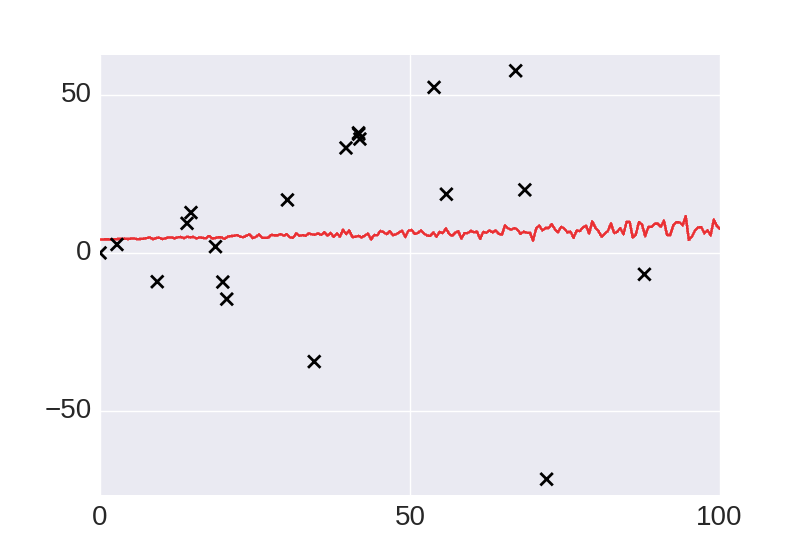
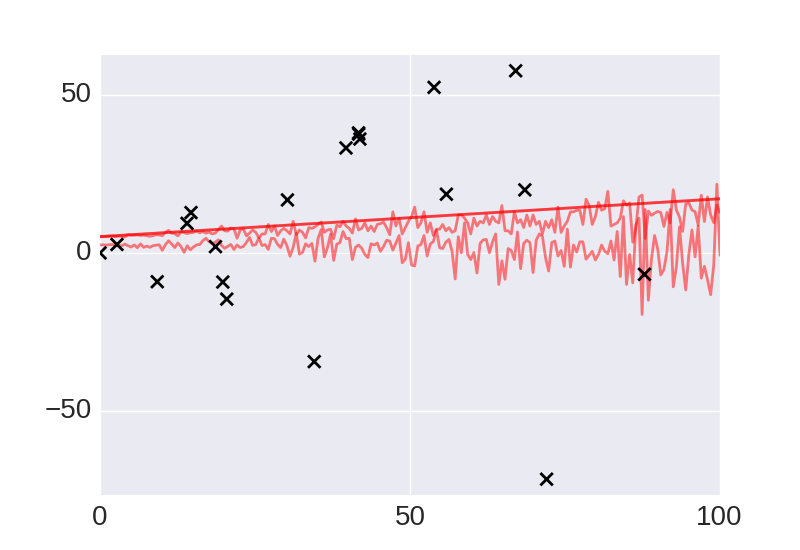
figure 1: showed more samples for predictive posterior. deleted data from the prior, cut the parameterizded kernel, changed labels of samples. Introduced K_theta for both matrix and function. Connected math and notation from the general GP secton better to the covariance section and to the figure.

Changed region(s): [[0.125, 0.34, 0.9062, 0.5564]]

diff --git a/sections/GP.tex b/sections/GP.tex
@@ -136,27 +136,81 @@ We see that this prior is fully determined by its covariance function.
 %%%%%%%%%%%%%%%%%%%%%%%%%%%%%%%%%%%%%%%%%%%%%%%%%%%%%%%%%%%%
 %%%%%%%%%%%%%%%%%%%%%%%%%%%%%%%%%%%%%%%%%%%%%%%%%%%%%%%%%%%%
 \subsection{Covariance Functions}
-The covariance function (or kernel) of a \ac{GP} governs high-level properties of the observed data such as linearity, periodicity and smoothness.
-It comes with few free parameters that we call hyper-parameters which we refer to as $\theta$.
-We write the parameterized covariance function as $\mathbf{K}_{\theta}(\xbf,\xbf)$ and the
-covariance matrix determined by a parameterized covariance function as $\mathbf{K}_{\theta}$.
-
-Adjusting the hyper-parameters changes non-qualitative attributes such as length
-scales while preserving the qualitative properties of the distribution.
-These high-level properties are compositional via addition and multiplication of different covariance functions. An addition models a global interaction, that is an interaction of two high-level components that is qualitatively not dependent on the input space. An example for this a periodic function with a linear trend.
-A multiplication models a local interaction of two components. 
-An example for this is a periodic function with a linearly increasing amplitude. We demonstrate kernel composition with local interactions in the tutorial in Fig. \ref{fig:composition_tutorial}. 
-
-
+The covariance function (or kernel) of a \ac{GP} governs high-level properties of the observed data such as smoothness or linearity. A linear covariance can be written as:
+%%%%%%%%%%%%%%%%%%%%%%%%%%%%%%%%%%%%%%%%%%%%%%%%%%%%%%%%%%%%
+\begin{equation}\label{eq:LIN1}
+    \text{LIN} =   \sigma_1^2(x x^\prime).
+\end{equation}
+%%%%%%%%%%%%%%%%%%%%%%%%%%%%%%%%%%%%%%%%%%%%%%%%%%%%%%%%%%%%
+We can also express periodicity:
+%%%%%%%%%%%%%%%%%%%%%%%%%%%%%%%%%%%%%%%%%%%%%%%%%%%%%%%%%%%%
+\begin{equation}\label{eq:PER1}
+    \text{PER} =  \sigma_2^2 \exp \bigg( \frac{2 \sin^2 ( \pi (x - x^\prime)/p}{\ell^2} \bigg). 
+\end{equation}
+%%%%%%%%%%%%%%%%%%%%%%%%%%%%%%%%%%%%%%%%%%%%%%%%%%%%%%%%%%%%
+By changing these properties we get completely different prior behavior for sampling $\fbf_*$ from a
+\ac{GP} with a linear kernel
+%%%%%%%%%%%%%%%%%%%%%%%%%%%%%%%%%%%%%%%%%%%%%%%%%%%%%%%%%%%%
+\[
+\fbf_* \sim \mathcal{N}\big(0,\text{LIN}(\xbf,\xbf)\big)
+\]
+%%%%%%%%%%%%%%%%%%%%%%%%%%%%%%%%%%%%%%%%%%%%%%%%%%%%%%%%%%%%
+as compared to sampling from the prior predictive with a periodic kernel (as depicted in 
+Fig. \ref{fig:composition_tutorial} (c) and (d))
+%%%%%%%%%%%%%%%%%%%%%%%%%%%%%%%%%%%%%%%%%%%%%%%%%%%%%%%%%%%%
+\[
+\fbf_* \sim \mathcal{N}\big(0,\text{PER}(\xbf,\xbf)\big).
+\]
+%%%%%%%%%%%%%%%%%%%%%%%%%%%%%%%%%%%%%%%%%%%%%%%%%%%%%%%%%%%%
+%%%%%%%%%%%%%%%%%%%%%%%%%%%%%%%%%%%%%%%%%%%%%%%%%%%%%%%%%%%%
 \begin{figure}
 \input{figs/composition/composition.tex}
 \caption{We depict kernel composition. 
-(a) shows raw data (black) generated with a sine function with linearly growing amplitude (blue). 
+(a) shows raw data (black) generated with a sine function with linearly growing amplitude (blue).
+This data is used for all the plots (c-h). 
 (b) shows the linear and the periodic base kernel as well as a composition of both. 
-The multiplication of the two kernels indicates local interaction. The local interaction we account for in this case is the growing amplitude (a). (c-e) show the parameterized kernels that we introduced in (b).
-The parameters are sampled from the posterior distribution on parameters for a \ac{GP} with kernel $\mathbf{K}=\text{LIN} \times \text{PER}$ where the data points from (a) are observed.
-(f-h) show samples from the prior where the parametrization from (c-e) is used, that is, before any data points are observed.
-(i-k) show samples from the posterior, after the data has been observed. Note that the same data is used for all of the plots.}
+The multiplication of the two kernels indicates local interaction. The local interaction we account for in this case is the growing amplitude (a). For each column (c-h) $\bm{\theta}$ is different.(c-e) show samples from the prior
+prior predictive $\fbf_*$ where random parameters are used, that is, we sample before any data points are observed.
+(f-h) show samples from the predictive posterior $\hat\fbf$, after the data has been observed.}
 \label{fig:composition_tutorial}
 \end{figure}
+%%%%%%%%%%%%%%%%%%%%%%%%%%%%%%%%%%%%%%%%%%%%%%%%%%%%%%%%%%%%
+These high-level properties are compositional via addition and multiplication of different covariance functions. 
+That means that we can also combine these properties.
+By using multiplication of kernels we can model a local interaction of two components, for example 
+%%%%%%%%%%%%%%%%%%%%%%%%%%%%%%%%%%%%%%%%%%%%%%%%%%%%%%%%%%%%
+\begin{equation}\label{eq:LINxPER}
+    \text{LIN} \times \text{PER} =  \sigma_1^2(x x^\prime)\, \sigma_2^2 \exp \bigg( \frac{2 \sin^2 ( \pi (x - x^\prime)/p}{\ell^2} \bigg) 
+\end{equation}
+%%%%%%%%%%%%%%%%%%%%%%%%%%%%%%%%%%%%%%%%%%%%%%%%%%%%%%%%%%%%
+This results in a combination of the higher level properties of linearity and  periodicity.
+In Fig \ref{fig:composition_tutorial} (e) we depict samples for $\fbf_*$ that are periodic
+with linearly increasing amplitude.
+We consider this a local interaction because the actual interaction depends on the similarity
+of two data points.
+An addition of covariance functions models a global interaction, that is an interaction of two high-level components that is qualitatively not dependent on the input space. An example for this a periodic function with a linear
+trend.
+
+Covariance functions come with  free parameters that we call hyper-parameters which we will
+refer to as $\bm{\theta}$.
+For each kernel type, each $\bm{\theta}$ is different, that is, in (\ref{eq:LIN1}) we have $\theta=\{\sigma_1\}$,
+in (\ref{eq:PER1}) we have $\bm{\theta}=\{\sigma_2,p,\ell\}$ and in 
+(\ref{eq:LINxPER}) we have $\bm{\theta}=\{\sigma_1,\sigma_2,p,\ell\}$.
+Adjusting these hyper-parameters changes lower level qualitative attributes such as length
+scales ($\ell$) while preserving the higher level qualitative properties of the distribution
+such as linearity.
+We write the parameterized covariance function as $\mathbf{K}_{\bm{\theta}}(\xbf,\xbf)$ and the
+covariance matrix determined by a parameterized covariance function as $\mathbf{K}_{\bm{\theta}}$.
+
+When we observe the data, that is we condition on the input-output pairs $\{\xbf,\fbf\}$ we can sample from the 
+predictive posterior $P(\hat\fbf \mid \fbf)$ given $\mathbf{K}_{\bm{\theta}}$ and respectively $\bm{\hat{\mu}}$ and $\hat{\mathbf{K}}_{\bm{\theta}}$.
+If we choose suitable parameters, for example by performing inference, we can capture the underlying dynamics of the data well (see Fig. \ref{fig:composition_tutorial} (f-h)) while sampling $\hat{\fbf}$.
+Note that goodness of fit is not only limited to the parameters. A too simple qualitative structure
+implies unsuitable behaviour, as for example in (Fig. \ref{fig:composition_tutorial} (g)) where additional 
+recurring spikes are introduced to account for the changing amplitude of the true function that 
+generated the data.
+
+
+
+
 

diff --git a/figs/composition/composition.tex b/figs/composition/composition.tex
@@ -17,29 +17,9 @@
     \end{subfigure}\vspace{4mm} 
 
 
-Parameterized Kernels:\vspace{3mm} 
 
-     \begin{subfigure}[b]{0.3\textwidth}
-      \centering \footnotesize
-       $20.1^2(x x^\prime) $ \vspace{2mm}
-	\caption{LIN}
-    \end{subfigure}
-    ~ %add desired spacing between images, e. g. ~, \quad, \qquad, \hfill etc. 
-      %(or a blank line to force the subfigure onto a new line)
-    \begin{subfigure}[b]{0.3\textwidth}
-      \centering \footnotesize
-      $19.1^2 \exp \bigg( \frac{2 \sin^2 ( \pi (x - x^\prime)/37.7}{6.3^2} \bigg)$ 
-	\caption{PER}
-    \end{subfigure}
-    ~ %add desired spacing between images, e. g. ~, \quad, \qquad, \hfill etc. 
-    %(or a blank line to force the subfigure onto a new line)
-    \begin{subfigure}[b]{0.3\textwidth}
-    \centering \footnotesize
-      $383.9^2 (x x^\prime) \exp \bigg( \frac{2 \sin^2 ( \pi (x - x^\prime)/37.7}{6.3^2} \bigg)$ 
-        \caption{LIN $\times$ PER}
-    \end{subfigure} \vspace{4mm} 
 
-Prior:
+Prior predictive:
 
      \begin{subfigure}[b]{0.3\textwidth}
         \includegraphics[width=\textwidth]{figs/composition/composition_demo_LIN_prior.png}
@@ -58,7 +38,7 @@ Prior:
         \caption{LIN $\times$ PER}
     \end{subfigure} \vspace{4mm} 
 
-Posterior:
+Posterior predictive:
 
  \begin{subfigure}[b]{0.3\textwidth}
         \includegraphics[width=\textwidth]{figs/composition/composition_demo_LIN.png}
